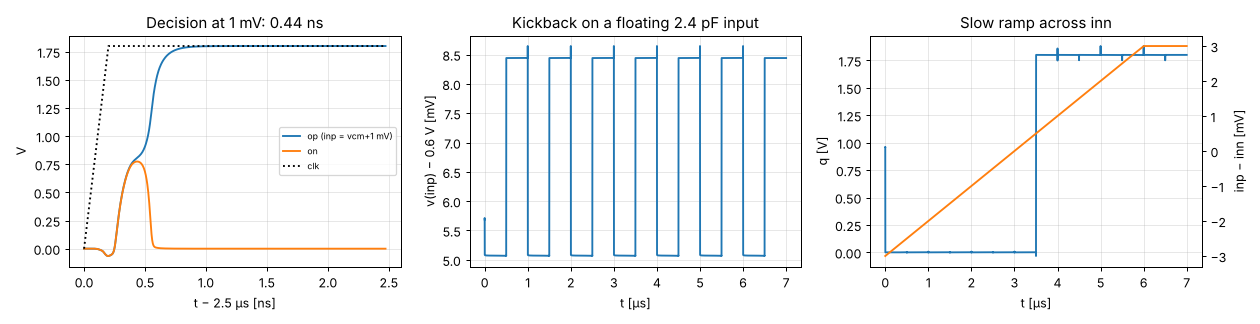
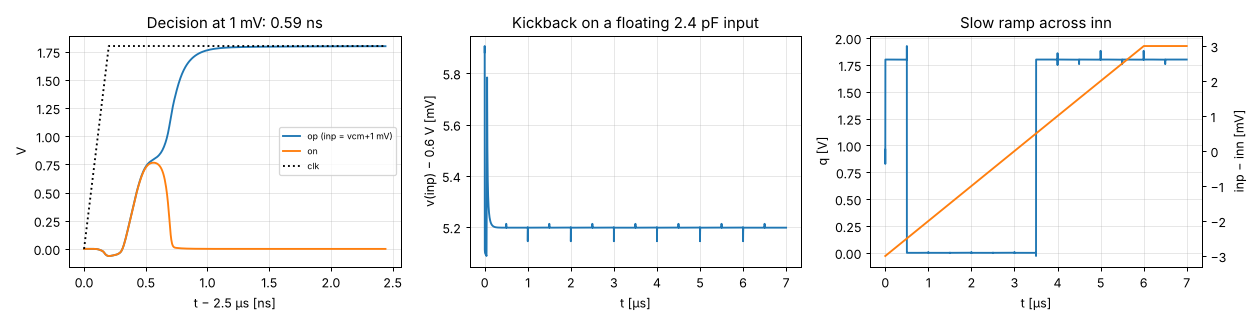
Stage 6 rerun with preamp: kickback peak 3.4 mV -> 0.02 mV
All 1 mV decisions correct at CM 0.2/0.6/1.0 V, 0.59 ns at 1 mV,
toggle point within +/-0.5 mV, 3.9 uA. README and drawing explain why the
preamp was added (kickback asymmetry found in I2).

Claude-Session: https://claude.ai/code/session_018xb9mH8bN9u9RTJdbtix1L

diff --git a/material/schematics/draw_stages.py b/material/schematics/draw_stages.py
@@ -351,7 +351,7 @@ s.save(f"{OUT}/stage7_inmux_vcm.png")
 # =================================================================== stage 6: comparator
 s = Sch()
 VDD, GND = 12.0, 0.0
-s.title(0, 14.2, "Stage 6 — comparator: PMOS-input StrongARM + inverters + NAND SR latch",
+s.title(0, 14.2, "Stage 6 — comparator: preamp + PMOS-input StrongARM + inverters + NAND SR latch",
         "all L in µm; reset while clk = 0 (clkb = 1), evaluate while clk = 1; q = 1 when inp > inn")
 s.rail(VDD, 0, 24, "VDPWR")
 s.rail(GND, 0, 24, "VGND")
@@ -359,8 +359,8 @@ mt = s.fet("p", 6, VDD, "right", "MT", "pfet 4/0.15")
 s.net(mt["gate"], "clkb", "right"); s.dot((6, VDD))
 TS = 10.0
 s.w(mt["drain"], (6, TS)); s.w((3, TS), (9, TS)); s.dot((6, TS)); s.net((6, TS), "ts", "below")
-m1 = s.fet("p", 3, TS, "left", "M1", "pfet_lvt 4/0.5"); s.net(m1["gate"], "inp", "left")
-m2 = s.fet("p", 9, TS, "right", "M2", "pfet_lvt 4/0.5"); s.net(m2["gate"], "inn", "right")
+m1 = s.fet("p", 3, TS, "left", "M1", "pfet_lvt 4/0.5"); s.net(m1["gate"], "pap", "left")
+m2 = s.fet("p", 9, TS, "right", "M2", "pfet_lvt 4/0.5"); s.net(m2["gate"], "pan", "right")
 s.net((3, 8.1), "xn", "left"); s.net((9, 8.1), "xp", "right")
 m4 = s.fet("p", 3, 7.6, "left", "M4", "pfet 1/0.15")
 m3 = s.fet("p", 9, 7.6, "right", "M3", "pfet 1/0.15")
@@ -374,7 +374,8 @@ s.dot(ON); s.dot(OP); s.net((3, 4.6), "on", "left"); s.net((9, 4.6), "op", "righ
 # cross coupling: gates of M4/M6 to op, gates of M3/M5 to on
 for g, nm, side in ((m4["gate"], "op", "left"), (m6["gate"], "op", "left"), (m3["gate"], "on", "right"), (m5["gate"], "on", "right")):
     s.net(g, nm + "  (cross-coupled)", side)
-s.d.add(elm.Label().at((0.2, 12.9)).label("reset nfets 0.42/0.15 (gate clkb) pull xp, xn, op, on to VGND", halign="left", fontsize=8, color=DEVC))
+s.d.add(elm.Label().at((0.2, 12.9)).label("reset nfets 0.42/0.15 (gate clkb) pull xp, xn, op, on to VGND.   "
+        "Preamp (not drawn): pfet_lvt 4/0.5 pair, 4 µA tail (pbias), nfet 0.5/1 diode loads: inp → pan, inn → pap (gain ≈ 2)", halign="left", fontsize=8, color=DEVC))
 # output stage
 s.d.add(logic.Not().at((15.0, 7.0)).anchor("in1").right()); s.net((15.0, 7.0), "op", "left"); s.net((17.6, 7.0), "opb", "above")
 s.d.add(logic.Not().at((15.0, 3.0)).anchor("in1").right()); s.net((15.0, 3.0), "on", "left"); s.net((17.6, 3.0), "onb", "below")

diff --git a/sim/comparator/README.md b/sim/comparator/README.md
@@ -1,9 +1,12 @@
-# Stage 6 — comparator (PMOS-input StrongARM + NAND SR latch)
+# Stage 6 — comparator (preamp + PMOS-input StrongARM + NAND SR latch)
 
 Schematic: `xschem/comparator.sch` (generated by `xschem/gen_comparator.py`; sizes and reasoning there).
 Drawing: `material/schematics/stage6_comparator.png`. Run: `./run.sh`.
 
 ## Design
+
+- **Preamp (added in integration I2):** PMOS-lvt pair 4/0.5, 4 µA tail from `pbias`, diode-connected
+  nfet 0.5/1 loads (gain ≈ 2). It isolates the DAC top plate from the latch's clocked kickback (see below).
 
 - **PMOS (lvt) input pair 4/0.5:** the DAC top plate moves within ≈ 0.1 … 1.3 V around vcm ≈ 0.72 V
   (switching scheme in `sim/inmux/README.md`). A PMOS pair works down to 0 V.
@@ -15,9 +18,19 @@ Drawing: `material/schematics/stage6_comparator.png`. Run: `./run.sh`.
 
 ## Results (tt, 27 °C, 1.8 V)
 
-See `results.md`: 0.44 ns decision at 1 mV (A10 ≤ 50 ns), all 1 mV decisions correct at CM 0.2 / 0.6 / 1.0 V,
-toggle point within ±0.5 mV, no net kickback on a floating 2.4 pF node (3.4 mV peak during evaluation,
-fully returned at reset), 78 nA at 1 MHz.
+See `results.md` (with the preamp): 0.59 ns decision at 1 mV (A10 ≤ 50 ns), all 1 mV decisions correct at
+CM 0.2 / 0.6 / 1.0 V, toggle point within ±0.5 mV, kickback peak on a floating 2.4 pF input 0.02 mV
+(was 3.4 mV without the preamp), 3.9 µA (preamp bias).
+
+## Why the preamp was added (found in integration I2)
+
+Without the preamp, the first full-ADC run showed a constant −2 LSB offset. At the clock edge the
+StrongARM tail turns on and the input pair's gate capacitance couples the same charge onto both inputs.
+In the ADC, `vtop` reaches ground through the DAC caps *and* the ~kΩ bottom-plate switches, while
+`vcm` sits directly on its decoupling cap. So in the first ~0.3 ns `vtop` moved +5 mV and `vcm` +3 mV. The
+latch decided inside that ≈ 9 mV differential transient. The stage 6 test used ideal-source inputs and
+couldn't show it. With the preamp the latch's kick lands on two identical preamp output nodes (common mode)
+and barely reaches the inputs.
 
 ## Simulation notes (apply to every comparator / ADC run)
 

diff --git a/sim/comparator/results.md b/sim/comparator/results.md
@@ -4,13 +4,13 @@ tt, 27 °C, VDPWR 1.80 V, clk 1 MHz. reltol 1e-5 (see README). Generated by `rep
 
 | Spec | Quantity | Result | Target | | Phase |
 |---|---|---|---|---|---|
-| A10 | Decision time at 1 mV overdrive (clk 50 % → |op−on| > 0.9 V) | 0.44 ns | ≤ 50 ns | ✅ | 1 |
+| A10 | Decision time at 1 mV overdrive (clk 50 % → |op−on| > 0.9 V) | 0.59 ns | ≤ 50 ns | ✅ | 1 |
 | — | Correct decisions, +1 mV / −1 mV at vcm = 0.6 V | 11/11, 11/11 | all | ✅ | 1 |
 | — | Correct decisions ±1 mV at CM 0.2 V and 1.0 V | ok | all | ✅ | 1 |
 | — | Kickback: drift of a floating 2.4 pF input over 5 cycles | -0.0 µV | ≤ 0.25 LSB = 1.2 mV | ✅ | 1 |
-| — | Kickback: peak excursion during evaluation (returns at reset) | 3.37 mV | — |  | 1 |
+| — | Kickback: peak excursion during evaluation (returns at reset) | 0.02 mV | — |  | 1 |
 | — | Toggle point (slow ramp, inn = 0.6 V) | between -0.50 and +0.50 mV | ≈ 0 (offset at tt) | ✅ | 1 |
-| — | Average supply current at 1 MHz clock | 78 nA | — |  | 1 |
+| — | Average supply current at 1 MHz clock | 3874 nA | — |  | 1 |
 | A7 | Offset σ (Monte Carlo) | Phase 2 | ≤ 10 mV |  | 2 |
 | A8 | Input-referred noise | Phase 2 | ≤ 1.19 mV rms |  | 2 |
 
